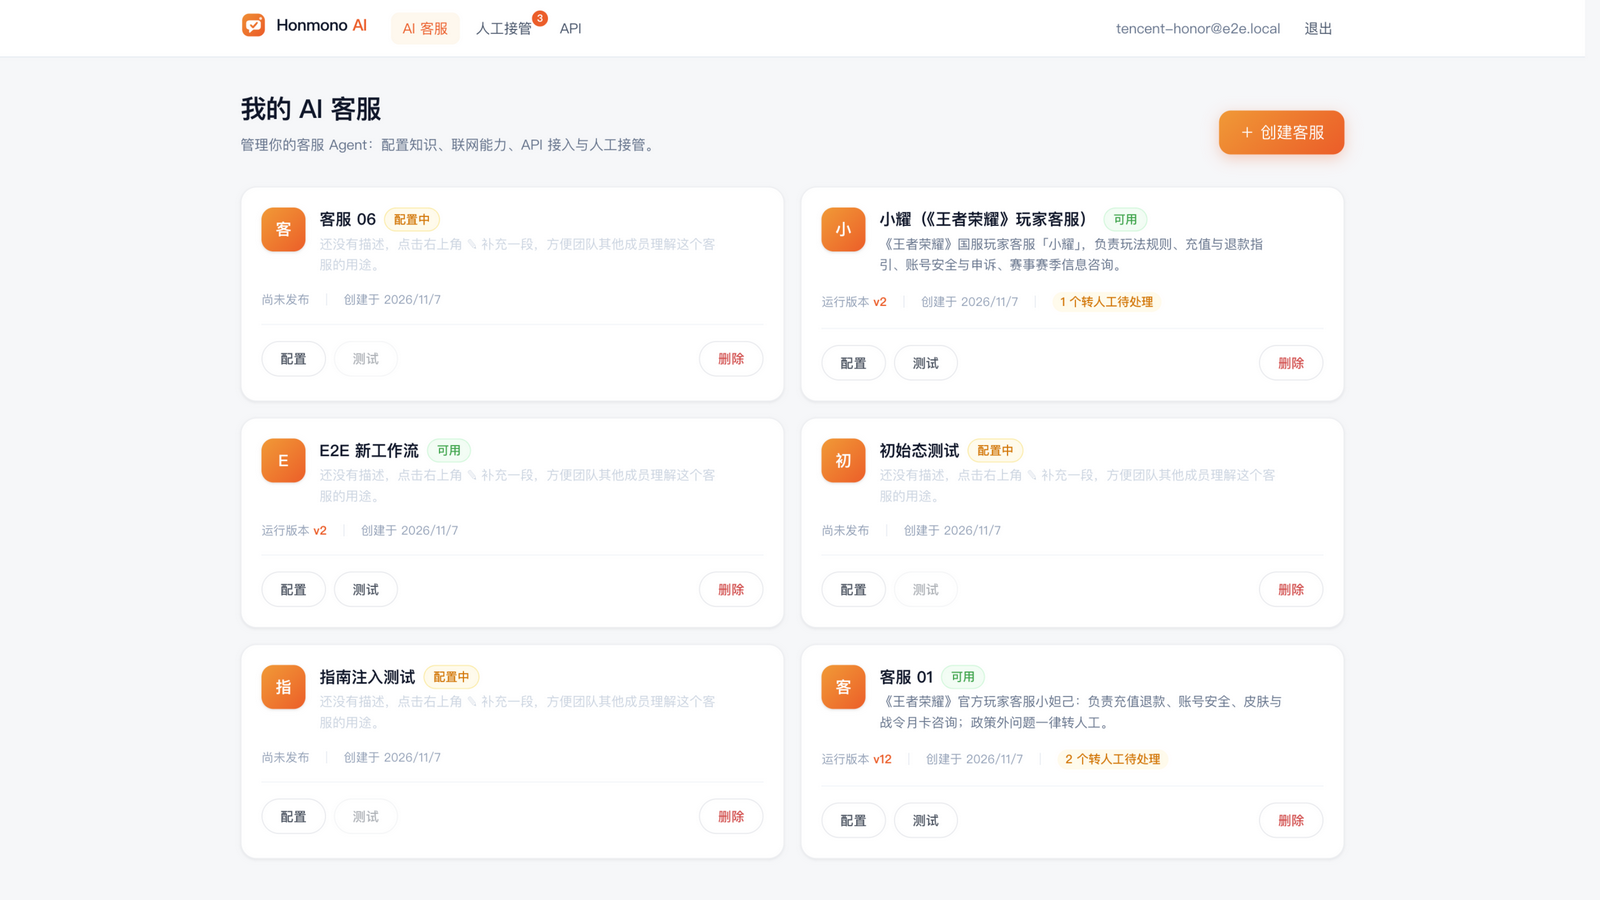
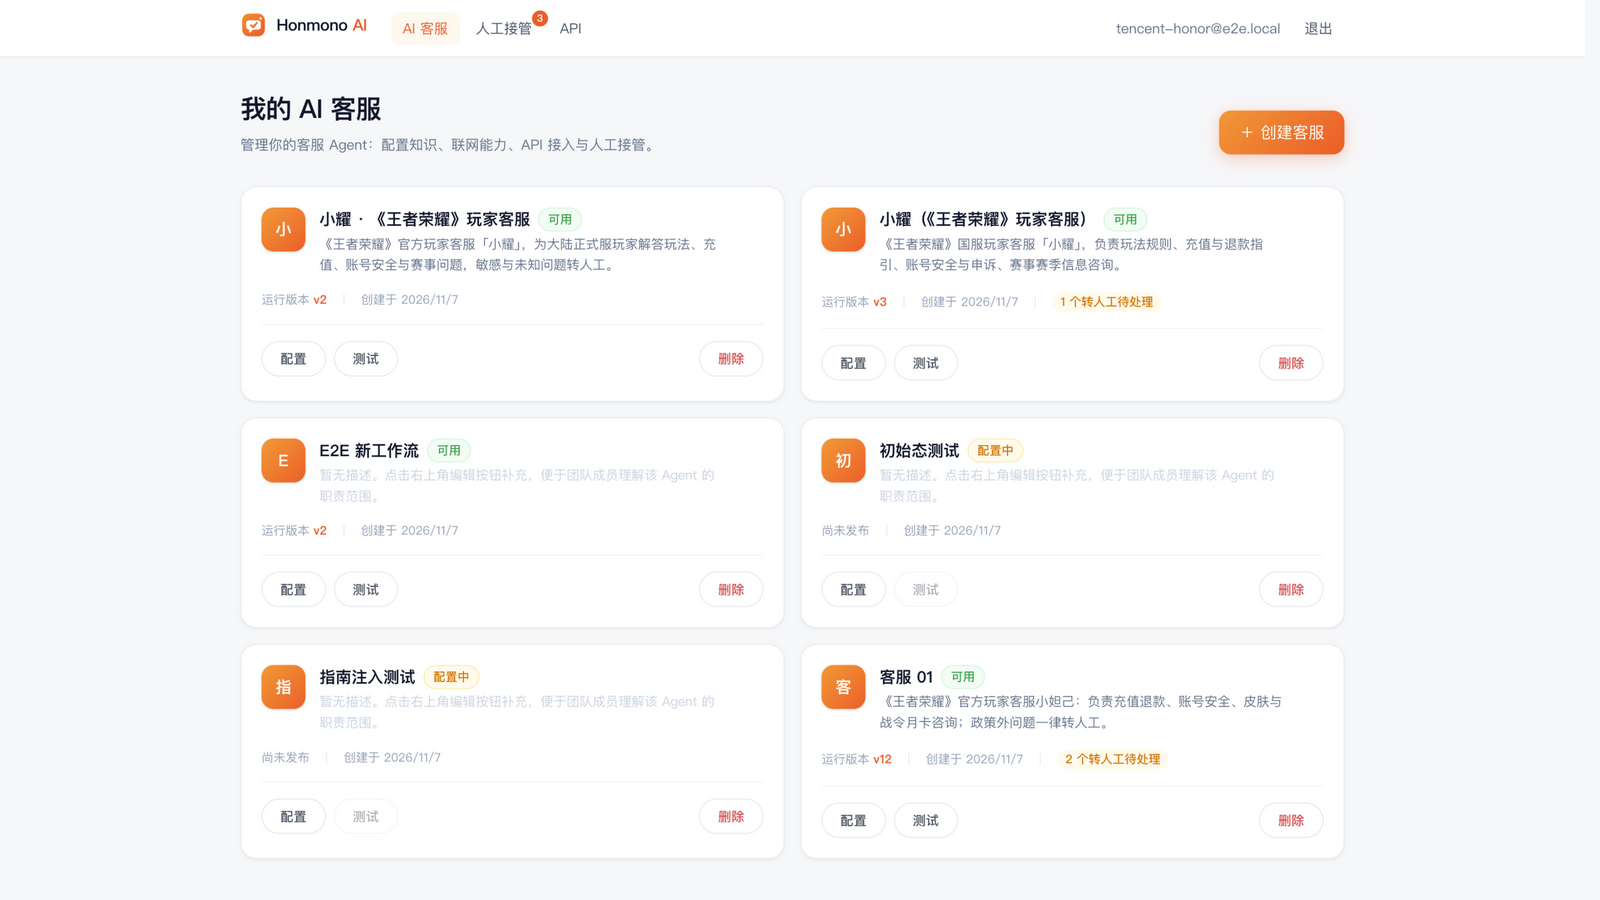
style(copy): 全站文案专业化
- 术语统一：玩家 → 终端用户，AI → Agent，人工求助 → 转人工/人工接管台
- 移除口语化表达（稍安勿躁/波浪号/表情符号）与内部路径泄漏（assets/raw）
- 空态与引导文案重写为专业表述；工作台欢迎语去除实现细节
- Dashboard/测试台/工作台/接管台状态提示同步更新

Changed region(s): [[0.1562, 0.2178, 0.4375, 0.3422], [0.2188, 0.3733, 0.25, 0.4044]]

diff --git a/apps/web/src/pages/TestPlayground.tsx b/apps/web/src/pages/TestPlayground.tsx
@@ -101,7 +101,7 @@ function TestInner({ id }: { id: string }) {
             setEvents((p) => [...p, { kind: "human", text: `转人工：${data.question}`, at: Date.now() }]);
             setBubbles((prev) => [
               ...prev,
-              { key: nextKey(), role: "system", content: `⏸ 已创建转人工（原因：${data.reason}）。可在「转人工」页处理。` },
+              { key: nextKey(), role: "system", content: `已创建转人工工单（原因：${data.reason}）。请在「人工接管台」处理。` },
             ]);
           } else if (event === "error") {
             setEvents((p) => [...p, { kind: "error", text: String(data.message ?? "错误"), at: Date.now() }]);
@@ -134,18 +134,18 @@ function TestInner({ id }: { id: string }) {
         <div className="flex items-center justify-between border-b border-slate-100 px-6 py-4">
           <div>
             <h2 className="text-[17px] font-semibold text-slate-900">测试台</h2>
-            <p className="mt-0.5 text-xs text-slate-400">与生产 /chat 完全独立的测试会话</p>
+            <p className="mt-0.5 text-xs text-slate-400">与生产环境完全隔离的验证会话，共用同一 Agent 核心</p>
           </div>
           <label className="flex cursor-pointer items-center gap-2 text-sm text-slate-600">
             <input type="checkbox" checked={useDraft} onChange={(e) => setUseDraft(e.target.checked)} className="accent-[#FF5000]" />
-            使用草稿版本
+            使用草稿 Skill
           </label>
         </div>
 
         <div className="flex-1 space-y-4 overflow-y-auto px-6 py-5">
           {bubbles.length === 0 && !streamTarget && (
             <div className="rounded-2xl border border-dashed border-slate-200 bg-slate-50/60 px-4 py-3 text-sm text-slate-500">
-              以玩家身份发送消息试试，右侧会显示执行事件时间线。
+              发送消息模拟终端用户咨询；右侧时间线将实时展示 Agent 的执行过程。
             </div>
           )}
           {bubbles.map((b) => (
@@ -162,7 +162,7 @@ function TestInner({ id }: { id: string }) {
                   <TypewriterText text={streamTarget.text} enabled={true} />
                 ) : (
                   <span className="flex items-center gap-1.5 text-slate-400">
-                    AI 正在处理
+                    Agent 正在处理
                     <span className="thinking-dot" />
                     <span className="thinking-dot" />
                     <span className="thinking-dot" />
@@ -174,7 +174,7 @@ function TestInner({ id }: { id: string }) {
           {running && !streamTarget && (
             <div className="flex justify-start">
               <div className="bubble-ai flex items-center gap-1.5 !text-slate-400">
-                AI 正在处理
+                Agent 正在处理
                 <span className="thinking-dot" />
                 <span className="thinking-dot" />
                 <span className="thinking-dot" />
@@ -186,12 +186,12 @@ function TestInner({ id }: { id: string }) {
 
         {lastStatus === "waiting_for_human" && (
           <div className="border-t border-amber-100 bg-amber-50/80 px-6 py-2.5 text-xs text-amber-700">
-            本会话已转人工：可在「转人工」页选择建议回复或接管；处理后 AI 恢复自动应答。
+            会话已转人工。请在「人工接管台」选用建议回复或直接接管；处理完成后 AI 将恢复自动应答。
           </div>
         )}
         <div className="border-t border-slate-100 px-4 pb-4 pt-3">
           <Composer
-            placeholder="以玩家身份输入消息…"
+            placeholder="输入终端用户消息…"
             disabled={running}
             onSend={send}
             sendLabel="Enter 发送"

diff --git a/apps/web/src/pages/Configure.tsx b/apps/web/src/pages/Configure.tsx
@@ -307,9 +307,9 @@ function Workbench({ id }: { id: string }) {
         {!showFiles && messages.length === 0 && (
           <div className="flex flex-col items-center pt-10 pb-6 text-center">
             <LogoMark size={44} />
-            <p className="mt-4 text-xl font-semibold text-slate-800">来搭建你的 AI 客服吧</p>
+            <p className="mt-4 text-xl font-semibold text-slate-800">配置你的 AI 客服 Agent</p>
             <p className="mt-1.5 max-w-md text-sm leading-relaxed text-slate-400">
-              描述你的公司和产品，或者上传产品手册、价格表、FAQ 等资料——助手会自动搭建客服技能、向你确认缺口，完成后自动发布上线。
+              描述你的业务与产品，或上传相关资料。配置助手将据此构建客服 Skill、确认关键缺口，并在就绪后自动发布。
             </p>
           </div>
         )}
@@ -334,7 +334,7 @@ function Workbench({ id }: { id: string }) {
         {busyRun && (
           <div className="msg-enter flex justify-start">
             <div className="bubble-ai flex items-center gap-1.5 !text-[13px] !text-slate-400">
-              正在分析草稿与资料
+              配置助手正在分析资料与草稿
               <span className="thinking-dot" />
               <span className="thinking-dot" />
               <span className="thinking-dot" />
@@ -362,7 +362,7 @@ function Workbench({ id }: { id: string }) {
           </span>
           {detail?.active && (
             <Link className="text-[#FF5000] hover:underline" to={`/services/${id}/test`}>
-              去测试 →
+              打开测试台 →
             </Link>
           )}
         </div>
@@ -374,7 +374,7 @@ function Workbench({ id }: { id: string }) {
           disabled={busyRun}
           onSend={send}
           attach={{ onFiles: upload, accept: ".md,.txt,.csv,.json,.pdf,.docx,.xlsx,.xls,.png,.jpg,.jpeg,.webp" }}
-          attachLabel="上传资料"
+          attachLabel="上传资料文件"
         />
       </div>
     </div>

diff --git a/apps/web/src/pages/HandoffsCenter.tsx b/apps/web/src/pages/HandoffsCenter.tsx
@@ -39,7 +39,7 @@ function Center() {
         <div>
           <h1 className="text-2xl font-bold">人工接管台</h1>
           <p className="mt-1 text-sm text-slate-500">
-            AI 无法确认或客户要求人工时会转到这里：选用建议回复、编辑后发送，或直接接管会话，处理完交还 AI。
+            Agent 无法确认答案，或终端用户要求人工服务时，会话将移交至此。可选用建议回复、编辑后发送，或直接接管会话；处理完成后交还 AI。
           </p>
         </div>
         <div className="flex gap-1 rounded-xl bg-white p-1 shadow-sm">
@@ -66,7 +66,6 @@ function Center() {
       {loading && <div className="card p-10 text-center text-slate-400">加载中…</div>}
       {!loading && visible.length === 0 && (
         <div className="card p-12 text-center">
-          <p className="text-3xl">🌤</p>
           <p className="mt-2 font-medium text-slate-600">{EMPTY_TITLE[tab]}</p>
           <p className="mt-1 text-sm text-slate-400">{EMPTY_DESC[tab]}</p>
         </div>
@@ -86,7 +85,7 @@ const EMPTY_TITLE: Record<string, string> = {
   closed: "还没有处理记录",
 };
 const EMPTY_DESC: Record<string, string> = {
-  pending: "AI 遇到不确定的问题时会自动转到这里，稍安勿躁～",
-  human_controlled: "接管会话后可以在这里继续人工回复。",
-  closed: "处理过的转人工请求会归档在这里。",
+  pending: "当 Agent 无法确认答案，或终端用户要求人工服务时，工单将出现在这里。",
+  human_controlled: "接管期间可在此继续以人工身份回复。",
+  closed: "已处理的工单将在此归档，供追溯与质检。",
 };

diff --git a/apps/web/src/pages/Dashboard.tsx b/apps/web/src/pages/Dashboard.tsx
@@ -68,7 +68,7 @@ function DashboardInner() {
           <div className="flex h-14 w-14 items-center justify-center rounded-2xl bg-orange-50 text-2xl">🤖</div>
           <p className="mt-4 font-semibold text-slate-700">还没有客服 Agent</p>
           <p className="mt-1 max-w-sm text-sm text-slate-400">
-            一键创建后，用一段话描述你的业务，或上传产品资料，几分钟就能得到一个可上线接入的客服。
+            创建后用一段话描述业务，或上传产品资料，即可在几分钟内完成一个可接入生产的客服 Agent。
           </p>
           <button className="btn-primary mt-6" onClick={merchant?.activated ? create : () => nav("/activate")}>
             {merchant?.activated ? "创建第一个客服" : "先去激活权益"}
@@ -110,7 +110,7 @@ function ServiceCard({ svc, onEdit, onChanged }: { svc: Svc; onEdit: () => void;
             <span className={`badge ${statusCls}`}>{statusLabel}</span>
           </div>
           <p className={`mt-0.5 line-clamp-2 min-h-[2.4em] text-[13px] leading-relaxed ${svc.description ? "text-slate-500" : "text-slate-300"}`}>
-            {svc.description || "还没有描述，点击右上角 ✎ 补充一段，方便团队其他成员理解这个客服的用途。"}
+            {svc.description || "暂无描述。点击右上角编辑按钮补充，便于团队成员理解该 Agent 的职责范围。"}
           </p>
         </div>
         <button
